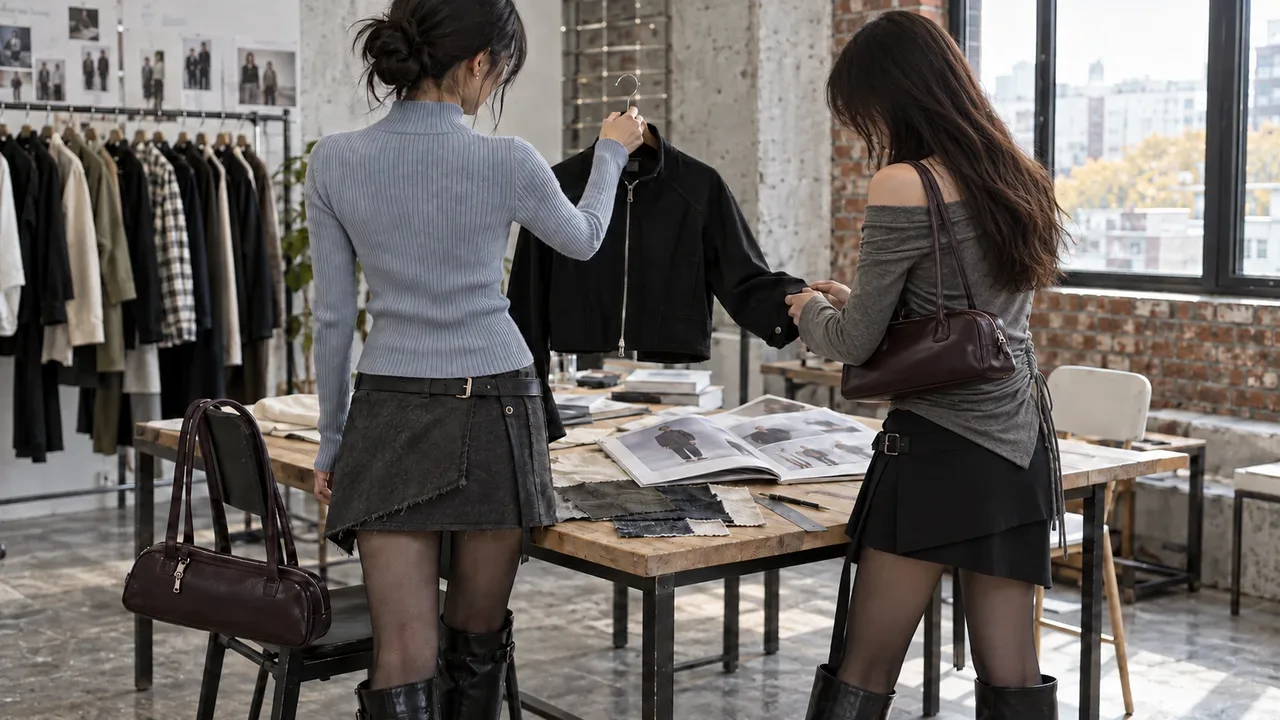
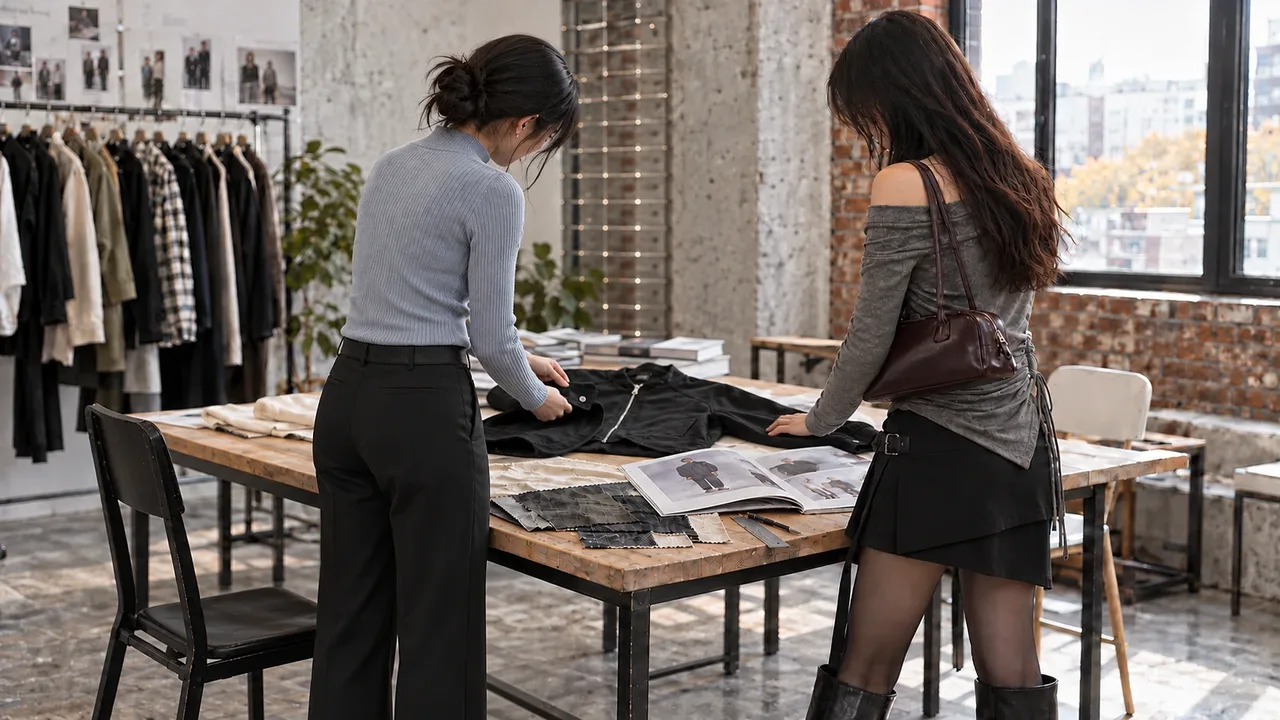
About 다국어 경험·브랜드 파트너십 이미지 교체(매장 카운터 안내, 작업실 테이블), 대체 글도 맞춤

diff --git a/index.html b/index.html
@@ -123,13 +123,13 @@
             <p class="value__desc" data-i18n="about-value-2-desc">서울 패션 피플들이 방문하는 지역 위주</p>
           </li>
           <li class="value">
-            <img class="value__image" src="src/assets/about-multilingual-experience.webp?v=2" alt="휴대전화 번역 화면으로 매장 직원에게 색상을 묻는 모습" data-i18n-alt="about-value-3-alt" width="960" height="540" loading="lazy" decoding="async">
+            <img class="value__image" src="src/assets/about-multilingual-experience.webp?v=3" alt="에디터와 함께 매장 직원에게 니트를 안내받는 모습" data-i18n-alt="about-value-3-alt" width="960" height="540" loading="lazy" decoding="async">
             <span class="value__index">03</span>
             <h3 class="value__title" data-i18n="about-value-3-title">다국어 경험</h3>
             <p class="value__desc" data-i18n="about-value-3-desc">관광객 언어로 소통</p>
           </li>
           <li class="value">
-            <img class="value__image" src="src/assets/about-brand-partnerships.webp?v=2" alt="브랜드 작업실에서 재킷과 원단, 룩북을 살펴보는 모습" data-i18n-alt="about-value-4-alt" width="960" height="540" loading="lazy" decoding="async">
+            <img class="value__image" src="src/assets/about-brand-partnerships.webp?v=3" alt="브랜드 작업실 테이블에서 재킷과 원단, 룩북을 함께 살펴보는 모습" data-i18n-alt="about-value-4-alt" width="960" height="540" loading="lazy" decoding="async">
             <span class="value__index">04</span>
             <h3 class="value__title" data-i18n="about-value-4-title">브랜드 파트너십</h3>
             <p class="value__desc" data-i18n="about-value-4-desc">한국에만 있는 브랜드와의 협업</p>
@@ -371,6 +371,6 @@
   </footer>
 
   <script src="https://cdnjs.cloudflare.com/ajax/libs/maplibre-gl/4.7.1/maplibre-gl.min.js" defer></script>
-  <script src="src/site.js?v=26"></script>
+  <script src="src/site.js?v=27"></script>
 </body>
 </html>

diff --git a/src/site.js b/src/site.js
@@ -45,8 +45,8 @@ const translations = {
     'spots-daydrop-img': 'src/assets/spots-daydrop-phone.webp?v=3',
     'about-value-1-alt': '매장 옷걸이에서 집업 니트를 골라 보는 모습',
     'about-value-2-alt': '서울 골목의 패션 매장 앞을 함께 걷는 모습',
-    'about-value-3-alt': '휴대전화 번역 화면으로 매장 직원에게 색상을 묻는 모습',
-    'about-value-4-alt': '브랜드 작업실에서 재킷과 원단, 룩북을 살펴보는 모습',
+    'about-value-3-alt': '에디터와 함께 매장 직원에게 니트를 안내받는 모습',
+    'about-value-4-alt': '브랜드 작업실 테이블에서 재킷과 원단, 룩북을 함께 살펴보는 모습',
     'spots-discover-alt': '앱 홈의 에디터 큐레이션 피드 화면',
     'spots-daydrop-alt': '앱의 매장 상세 화면과 예약 금액',
     'tier-discover-more': '에디터가 엄선한 매장과 브랜드 이야기를<br>큐레이션 카드로 확인하세요.',
@@ -155,8 +155,8 @@ const translations = {
     'spots-daydrop-img': 'src/assets/spots-daydrop-phone-en.webp?v=3',
     'about-value-1-alt': 'Picking out a zip-up knit from a rack in a shop',
     'about-value-2-alt': 'Walking past fashion shops on a Seoul side street',
-    'about-value-3-alt': 'Asking shop staff about a color with a phone translation screen',
-    'about-value-4-alt': 'Looking over a jacket, fabric swatches and a lookbook in a brand studio',
+    'about-value-3-alt': 'Hearing about a knit from shop staff with the editor',
+    'about-value-4-alt': 'Looking over a jacket, fabric swatches and a lookbook together at a brand studio table',
     'spots-discover-alt': 'Editor curation feed on the app home screen',
     'spots-daydrop-alt': 'Shop detail screen in the app with the booking price',
     'tier-discover-more': 'Explore editor-picked shops and brand stories<br>through curation cards.',
